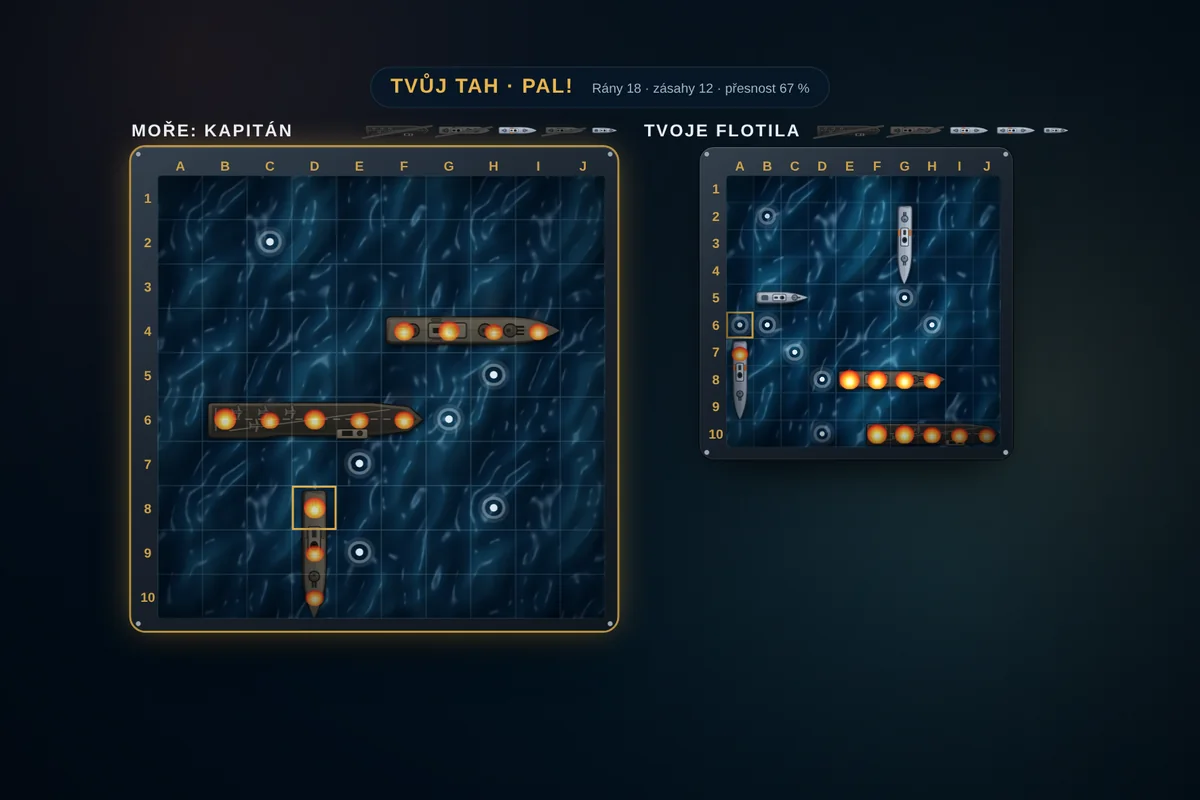
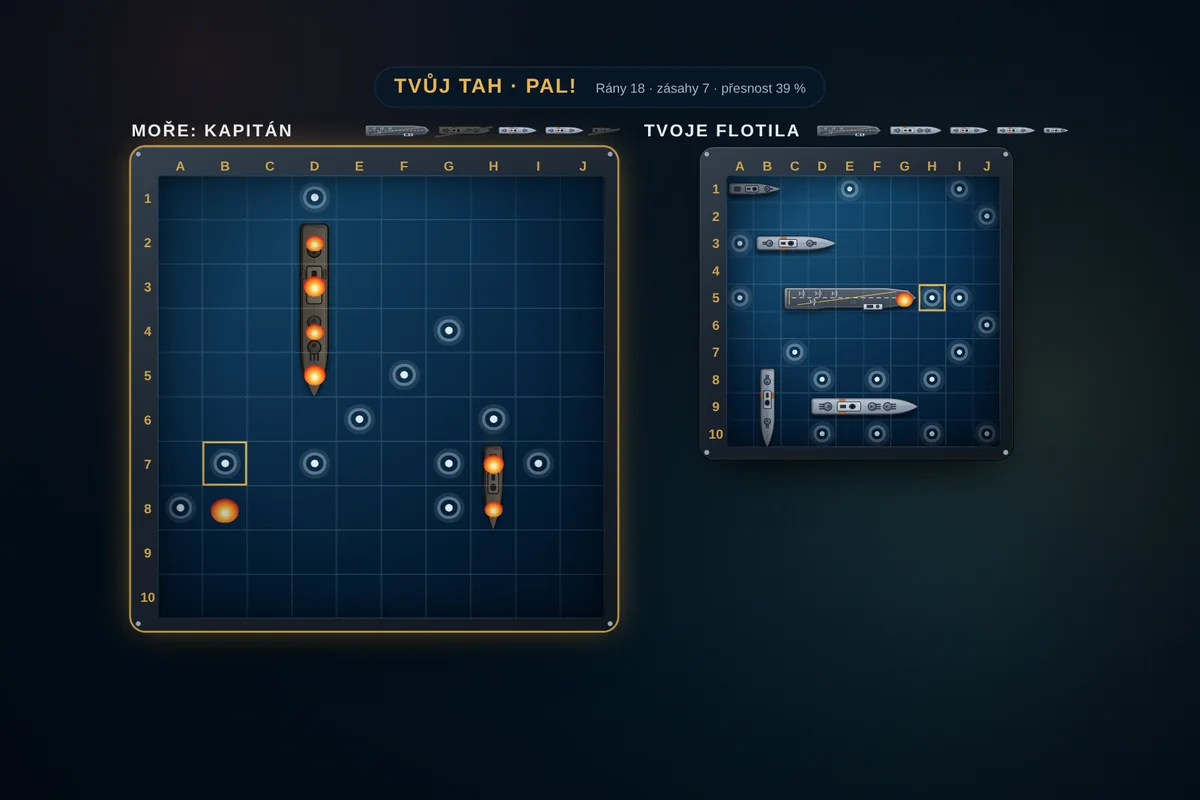
perf(web): Lodě sea as a static CSS gradient instead of a moving texture (#158)

diff --git a/apps/web/static/games/lode/style.css b/apps/web/static/games/lode/style.css
@@ -1,6 +1,8 @@
 /* LODĚ – námořní bitva v noci: ocelové velitelské mapy, mosazné souřadnice, moře v pohybu.
-   Moře je obrázek vln (img/sea.webp, dlaždice), lodě jsou SVG shora přes celá pole, nad nimi
-   průhledná pole s ranami (voda, oheň s kouřem, výbuch, vodní tříšť). */
+   Moře je jen statický přechod v CSS (žádný obrázek ani pohyb vody, ať stránka nic zbytečně
+   nepřekresluje), lodě jsou SVG shora přes celá pole, nad nimi průhledná pole s ranami
+   (voda, oheň s kouřem, výbuch, vodní tříšť). */
+:root { --sea: radial-gradient(ellipse at 30% 20%, rgba(70, 150, 200, .22), transparent 60%), linear-gradient(160deg, #0d4166, #072b4a 55%, #041c33); }
 :root {
   --text: #e8f1f8; --muted: #9db3c6; --dim: #5d7387;
   --glass: rgba(7, 24, 40, .8); --glass-2: rgba(9, 28, 46, .96);
@@ -14,8 +16,8 @@ body.kit::before { content: ''; position: fixed; inset: 0; z-index: 1; pointer-e
 .k-hero, .k-page h2, .k-result h2, .k-card-h { letter-spacing: .06em; }
 .k-hero h1 { font-weight: 900; letter-spacing: .08em; background: linear-gradient(180deg, #f4f8fb 15%, #c3cfdb 55%, var(--a)); -webkit-background-clip: text; background-clip: text; filter: drop-shadow(0 2px 0 rgba(0, 0, 0, .6)); }
 /* úvodní karta: noční moře, vlevo výřez bitvy, vpravo text */
-.k-hero { background: linear-gradient(90deg, rgba(3, 16, 28, .5) 20%, rgba(3, 16, 28, .86) 55%, rgba(3, 16, 28, .96) 75%), url(img/sea.webp) 0 0 / 300px; box-shadow: inset 0 0 0 1px var(--line-2), 0 24px 60px -24px #000; }
-@media (max-width: 720px) { .k-hero { background: linear-gradient(180deg, rgba(3, 16, 28, .1) 30%, rgba(3, 16, 28, .9) 60%), url(img/sea.webp) 0 0 / 260px; } }
+.k-hero { background: linear-gradient(90deg, rgba(3, 16, 28, .2) 20%, rgba(3, 16, 28, .86) 55%, rgba(3, 16, 28, .96) 75%), var(--sea); box-shadow: inset 0 0 0 1px var(--line-2), 0 24px 60px -24px #000; }
+@media (max-width: 720px) { .k-hero { background: linear-gradient(180deg, rgba(3, 16, 28, 0) 30%, rgba(3, 16, 28, .9) 60%), var(--sea); } }
 
 /* ── Rozložení ── */
 .ld-wrap { --szE: 440px; --szM: 270px; --szP: 440px; --lab: 20px; --cell: calc(var(--szP) / 10); display: grid; gap: 14px; justify-items: center; width: 100%; user-select: none; -webkit-user-select: none; }
@@ -53,12 +55,9 @@ body.kit::before { content: ''; position: fixed; inset: 0; z-index: 1; pointer-e
 .ld-cols { grid-column: 2; grid-row: 1; grid-template-columns: repeat(10, 1fr); align-items: center; }
 .ld-rows { grid-column: 1; grid-row: 2; grid-template-rows: repeat(10, 1fr); justify-items: center; align-items: center; }
 .ld-cols span { text-align: center; }
-.ld-water { grid-column: 2; grid-row: 2; position: relative; overflow: hidden; border-radius: 4px; background: #062038; box-shadow: inset 0 0 0 1px rgba(160, 210, 240, .3); }
-/* vlny se pomalu posouvají (posun o celou dlaždici, takže smyčka navazuje) */
-.ld-water::before { content: ''; position: absolute; left: -280px; top: -280px; right: 0; bottom: 0; background: url(img/sea.webp) 0 0 / 280px; opacity: .58; animation: ldDrift 70s linear infinite; will-change: transform; }
+.ld-water { grid-column: 2; grid-row: 2; position: relative; overflow: hidden; border-radius: 4px; background: var(--sea); box-shadow: inset 0 0 0 1px rgba(160, 210, 240, .3); }
+.ld-enemy .ld-water { background: linear-gradient(rgba(2, 10, 20, .22), rgba(2, 10, 20, .22)), var(--sea); }
 .ld-water::after { content: ''; position: absolute; inset: 0; z-index: 3; pointer-events: none; background: radial-gradient(ellipse at 50% 45%, transparent 50%, rgba(0, 8, 18, .55) 100%); box-shadow: inset 0 0 26px rgba(0, 0, 0, .55); }
-.ld-enemy .ld-water::before { filter: brightness(.82) saturate(.85); }
-@keyframes ldDrift { to { transform: translate(280px, 280px); } }
 .ld-ships { position: absolute; inset: 0; z-index: 1; pointer-events: none; }
 .ld-cells { position: absolute; inset: 0; z-index: 2; display: grid; grid-template-columns: repeat(10, 1fr); grid-template-rows: repeat(10, 1fr); }
 .ld-c { position: relative; display: block; padding: 0; border: 0; background: none; box-shadow: inset 0 0 0 .5px rgba(170, 215, 240, .22); font: inherit; color: inherit; }
@@ -68,9 +67,6 @@ button.ld-c:disabled { cursor: default; }
 /* ── Lodě ── */
 .ld-ship { position: absolute; filter: drop-shadow(0 3px 2px rgba(0, 0, 0, .6)); }
 .ld-ship svg { display: block; width: 100%; height: 100%; }
-.ld-mine .ld-ship:not(.sunk) { animation: ldBob 4.5s ease-in-out infinite alternate; }
-.ld-mine .ld-ship:nth-child(2n) { animation-duration: 5.3s; animation-delay: -2s; }
-@keyframes ldBob { from { transform: rotate(-.6deg) translateY(-1%); } to { transform: rotate(.6deg) translateY(1%); } }
 .ld-ship.sunk { filter: grayscale(.85) brightness(.42) sepia(.55) drop-shadow(0 2px 2px rgba(0, 0, 0, .6)); }
 .ld-ship.reveal { opacity: .6; filter: grayscale(.4) drop-shadow(0 0 3px rgba(233, 180, 76, .7)); }
 .ld-ship.no { animation: ldNo .35s; }
@@ -86,7 +82,7 @@ button.ld-c:disabled { cursor: default; }
 .ld-c.hit::before, .ld-c.sunk::before { content: ''; position: absolute; left: 14%; top: -18%; width: 72%; height: 72%; border-radius: 50%; background: radial-gradient(circle, rgba(64, 66, 72, .7), rgba(64, 66, 72, 0) 70%); animation: ldSmoke 2.8s ease-out infinite; }
 .ld-c:nth-child(3n).hit::before, .ld-c:nth-child(3n).sunk::before { animation-delay: -1s; }
 .ld-c:nth-child(3n + 1).hit::before, .ld-c:nth-child(3n + 1).sunk::before { animation-delay: -1.9s; }
-@keyframes ldFlame { from { transform: scale(.86, .82); filter: brightness(.95); } to { transform: scale(1.04, 1.1); filter: brightness(1.15); } }
+@keyframes ldFlame { from { transform: scale(.86, .82); opacity: .9; } to { transform: scale(1.04, 1.1); opacity: 1; } }
 @keyframes ldSmoke { from { transform: translateY(20%) scale(.5); opacity: .9; } to { transform: translateY(-70%) scale(1.5); opacity: 0; } }
 .ld-c.last { box-shadow: inset 0 0 0 2px rgba(233, 180, 76, .95); }
 .ld-boom { position: absolute; inset: -45%; z-index: 4; border-radius: 50%; pointer-events: none; background: radial-gradient(circle, #fffbe2 0 10%, #ffd166 22%, #ff7b1c 40%, rgba(226, 38, 20, .6) 58%, transparent 70%); animation: ldBoom .75s ease-out forwards; }
@@ -99,7 +95,7 @@ button.ld-c:disabled { cursor: default; }
 .ld-c.pv.bad { background: rgba(240, 70, 60, .38); box-shadow: inset 0 0 0 1px rgba(255, 120, 110, .75); }
 .ld-c.halo { background: repeating-linear-gradient(45deg, rgba(255, 255, 255, .1) 0 3px, transparent 3px 7px); }
 .ld-dock { display: flex; flex-wrap: wrap; gap: 8px; }
-.ld-dship { display: grid; gap: 5px; justify-items: start; padding: 8px 10px 6px; border-radius: 12px; cursor: grab; touch-action: none; background: linear-gradient(rgba(3, 16, 28, .7), rgba(3, 16, 28, .7)), url(img/sea.webp) 0 0 / 200px; box-shadow: inset 0 0 0 1px var(--line-2); }
+.ld-dship { display: grid; gap: 5px; justify-items: start; padding: 8px 10px 6px; border-radius: 12px; cursor: grab; touch-action: none; background: linear-gradient(rgba(3, 16, 28, .35), rgba(3, 16, 28, .35)), var(--sea); box-shadow: inset 0 0 0 1px var(--line-2); }
 .ld-dship:hover { box-shadow: inset 0 0 0 1px var(--a); }
 .ld-dship.sel { box-shadow: inset 0 0 0 2px var(--a), 0 0 18px -4px var(--a); }
 .ld-dhull { height: var(--cell); filter: drop-shadow(0 3px 2px rgba(0, 0, 0, .6)); }
